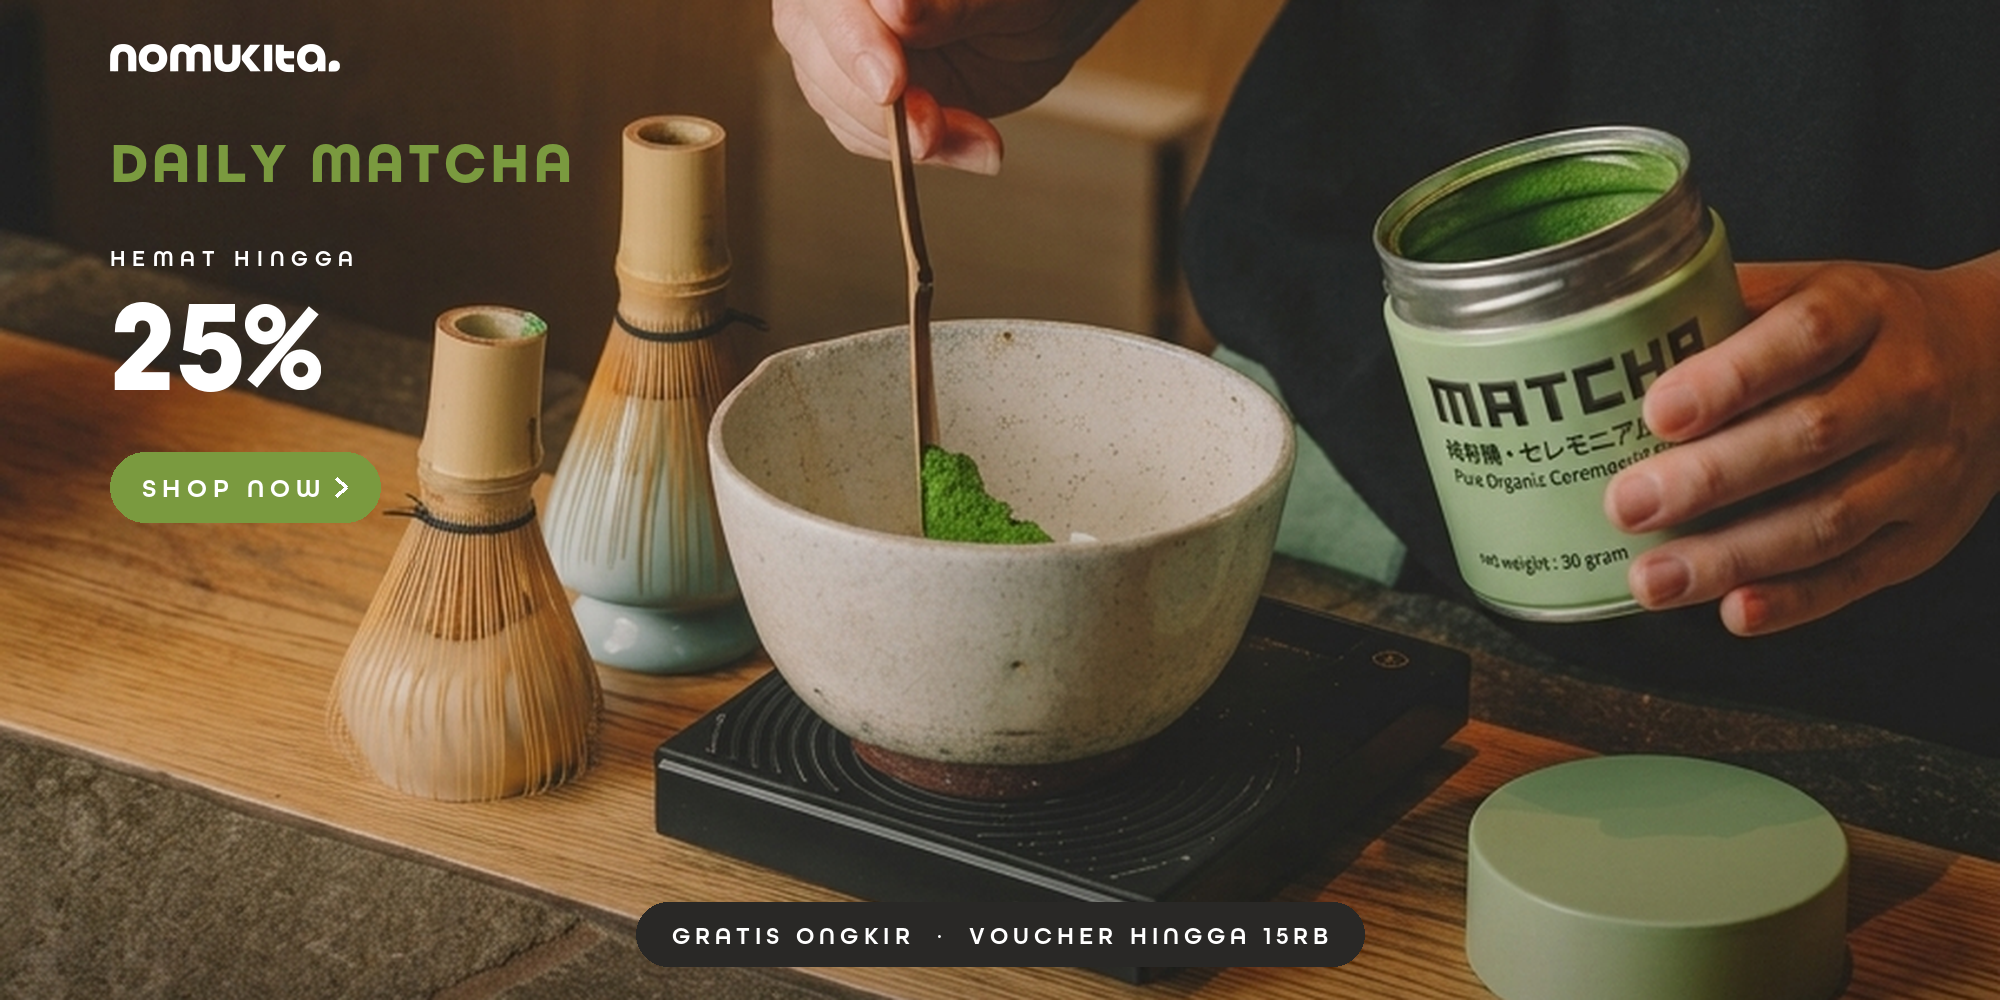
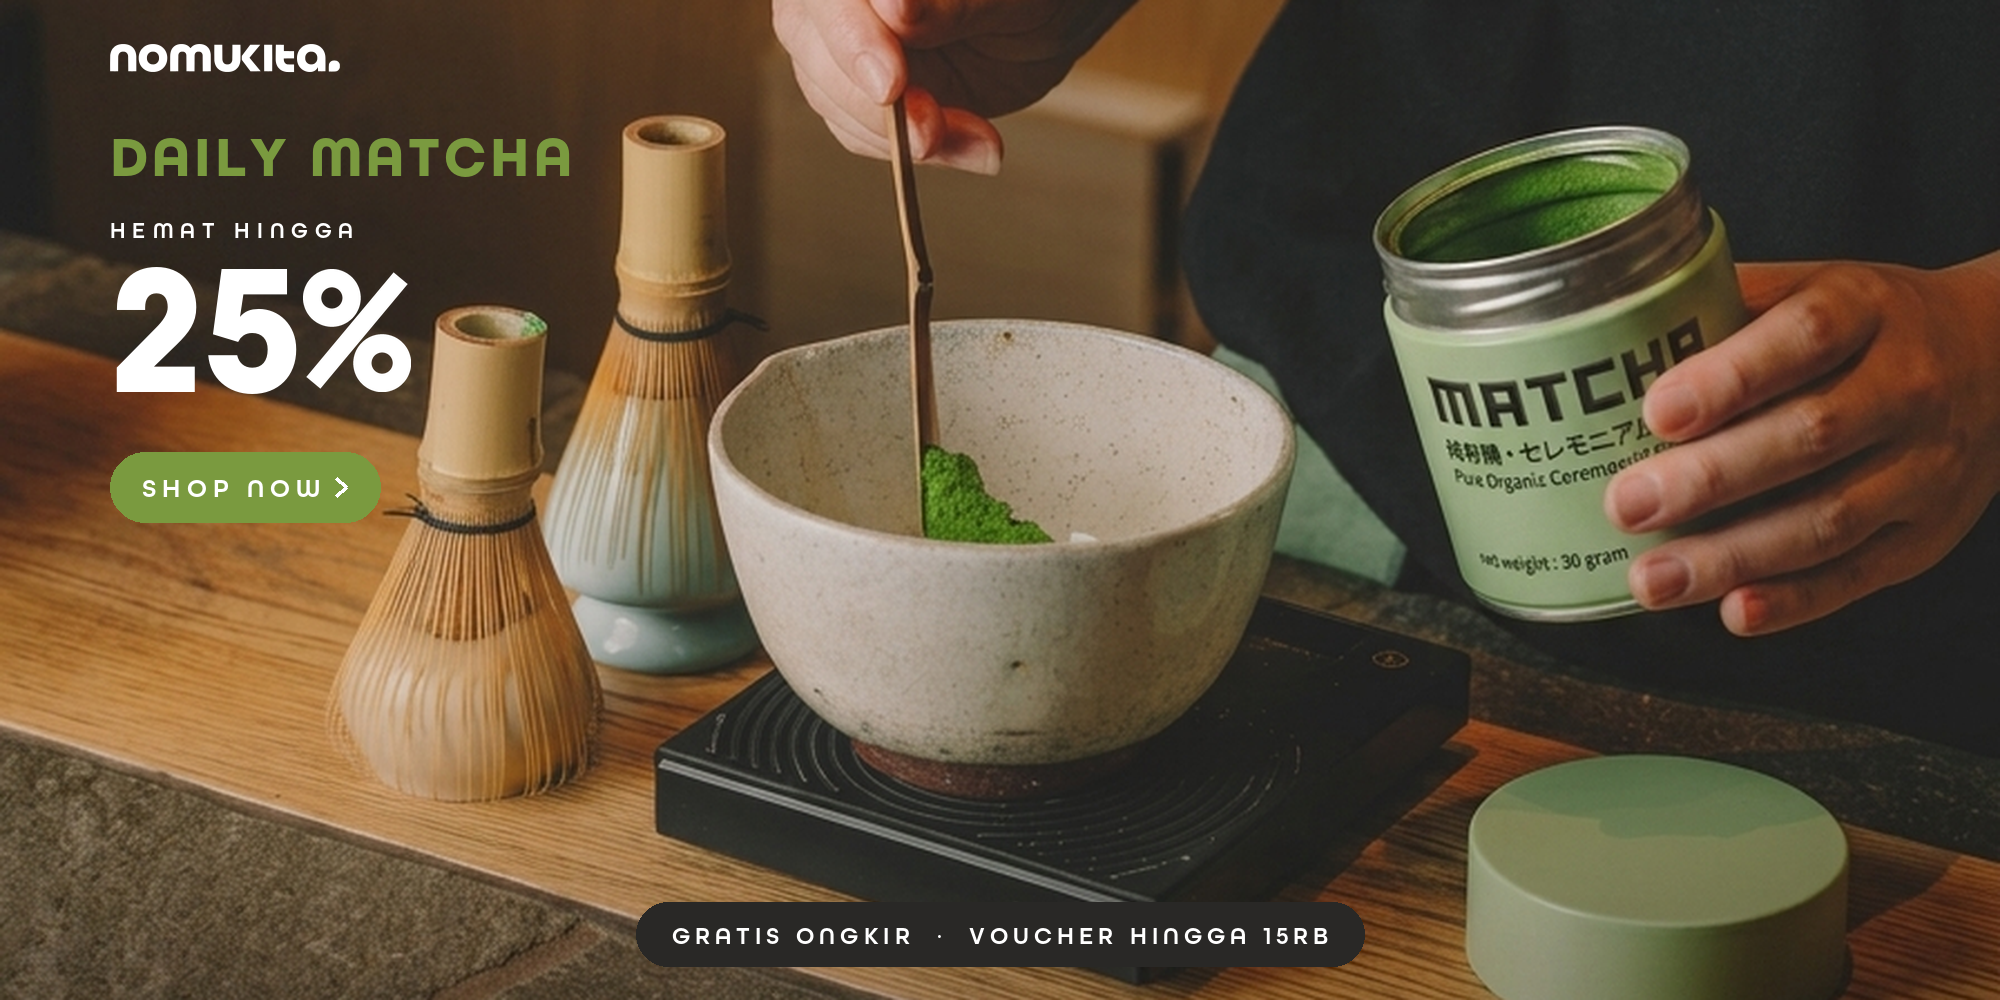
Enlarge the discount number to the ground's ceiling
From 132 to 188 — a 42 percent step — after the client found the offer too
small against the bowl. 188 is the measured ceiling rather than a taste choice:
the number then spans x 110-411 and y 263-392, where the tea-room shadow still
peaks at 97, while one step further to 198 reaches x 426 and hits the lit shoji
edge at 143. The label and headline tightened one notch each to keep the column
rhythm.

Claude-Session: https://claude.ai/code/session_01LqXMhsXVUSTDGQKyLmseEg

Changed region(s): [[0.062, 0.217, 0.217, 0.403], [0.124, 0.124, 0.279, 0.186], [0.062, 0.124, 0.124, 0.186]]

diff --git a/banners/build.py b/banners/build.py
@@ -259,13 +259,16 @@ def discount():
     N.logo(c, y=44, width=230, x=WIDE_M, colour='#FFFFFF')
     # 56 rather than 60: DAILY MATCHA runs 491 at 60 and the dark ground ends
     # at x 600, so one size down keeps the headline off the lit shoji screen.
-    N.text(d, (WIDE_M, 182), 'DAILY MATCHA', 56, MATCHA, tracking=4)
-    N.text(d, (WIDE_M, 266), 'HEMAT HINGGA', 22, white, demi=True, tracking=7)
+    N.text(d, (WIDE_M, 176), 'DAILY MATCHA', 56, MATCHA, tracking=4)
+    N.text(d, (WIDE_M, 238), 'HEMAT HINGGA', 22, white, demi=True, tracking=7)
 
-    size = 132
+    # 188 is the ceiling the ground sets, not a taste choice: the number spans
+    # x 110-411 and y 263-392 at this size, where the shadow still peaks at 97;
+    # one step up to 198 reaches x 426 and the lit screen edge at 143.
+    size = 188
     cap = N.arg(size).getbbox('H')[3] - N.arg(size).getbbox('H')[1]
-    x = WIDE_M + N.text(d, (WIDE_M, 390), '25', size, white)
-    N.percent(c, x, 390, cap, white)
+    x = WIDE_M + N.text(d, (WIDE_M, 392), '25', size, white)
+    N.percent(c, x, 392, cap, white)
 
     label, fs, tr = 'SHOP NOW', 26, 6
     lw = N.text_width(label, fs, demi=True, tracking=tr)
